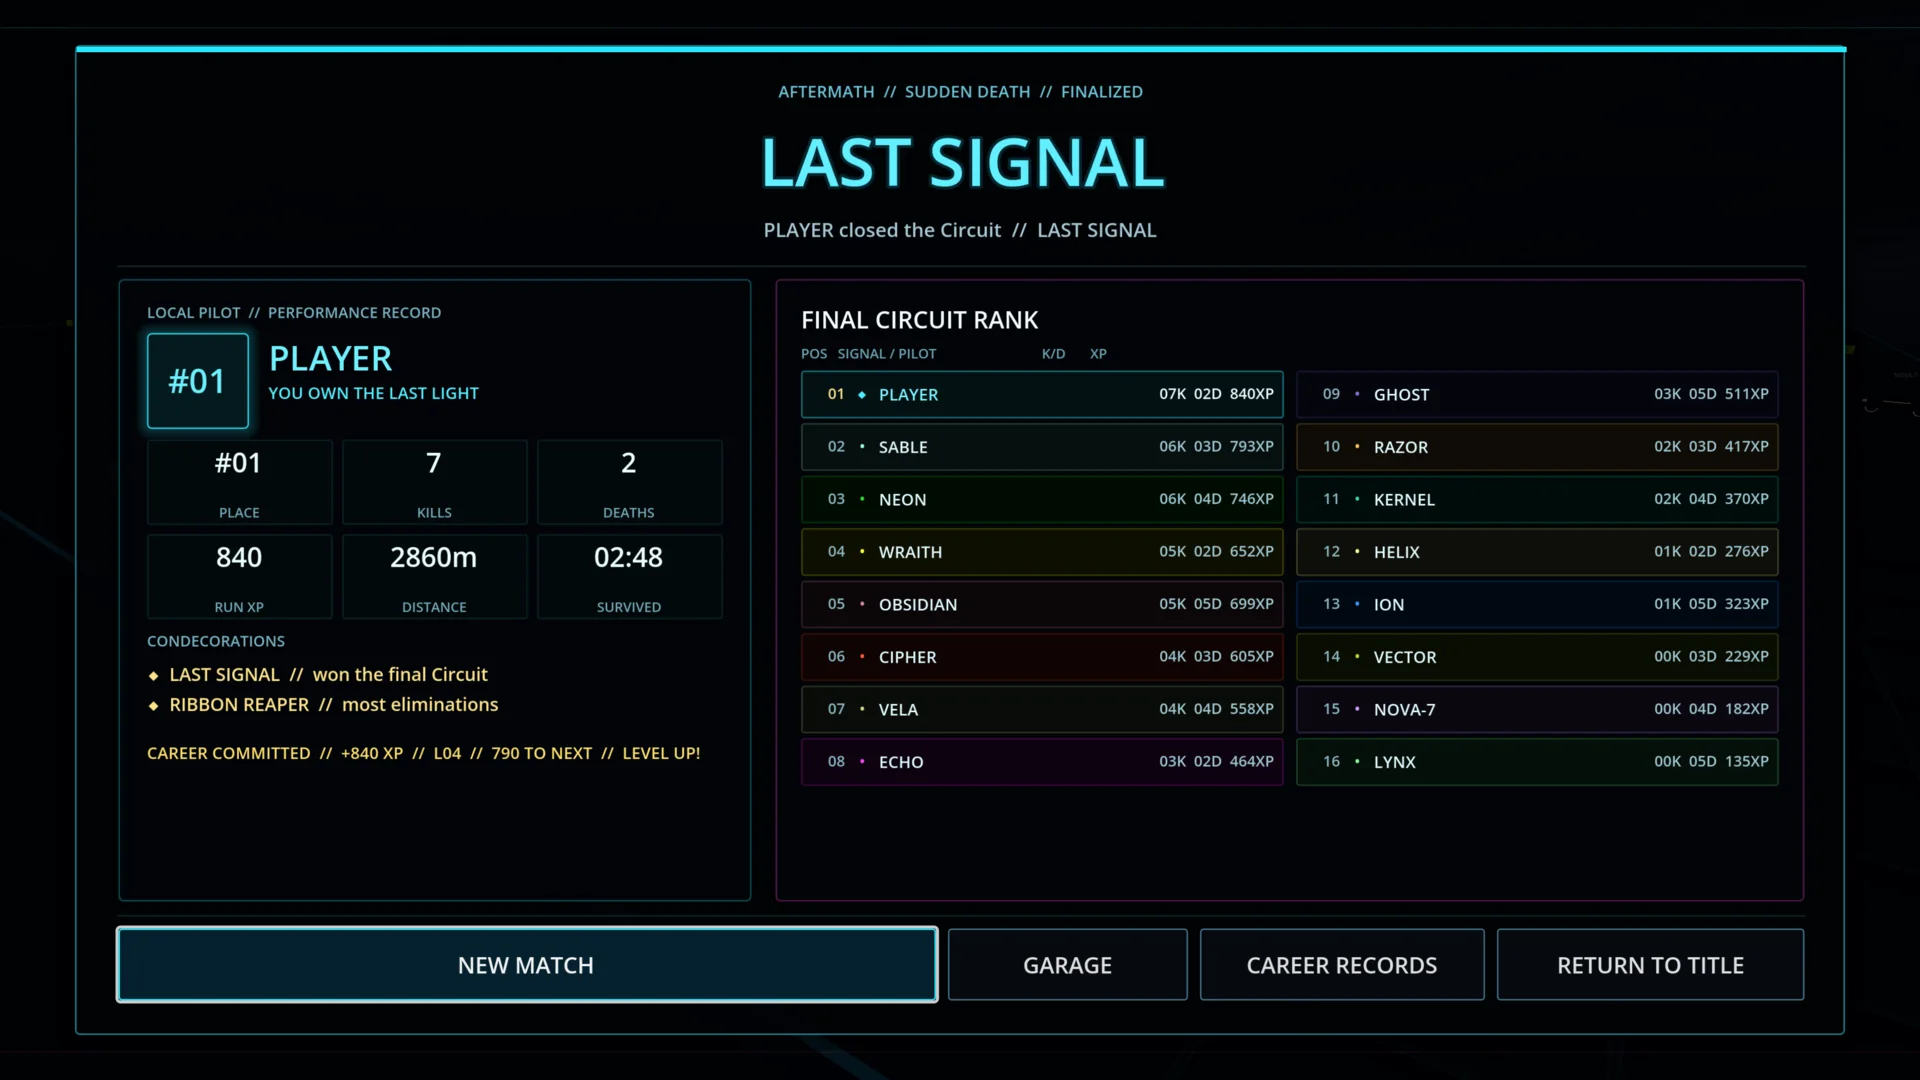
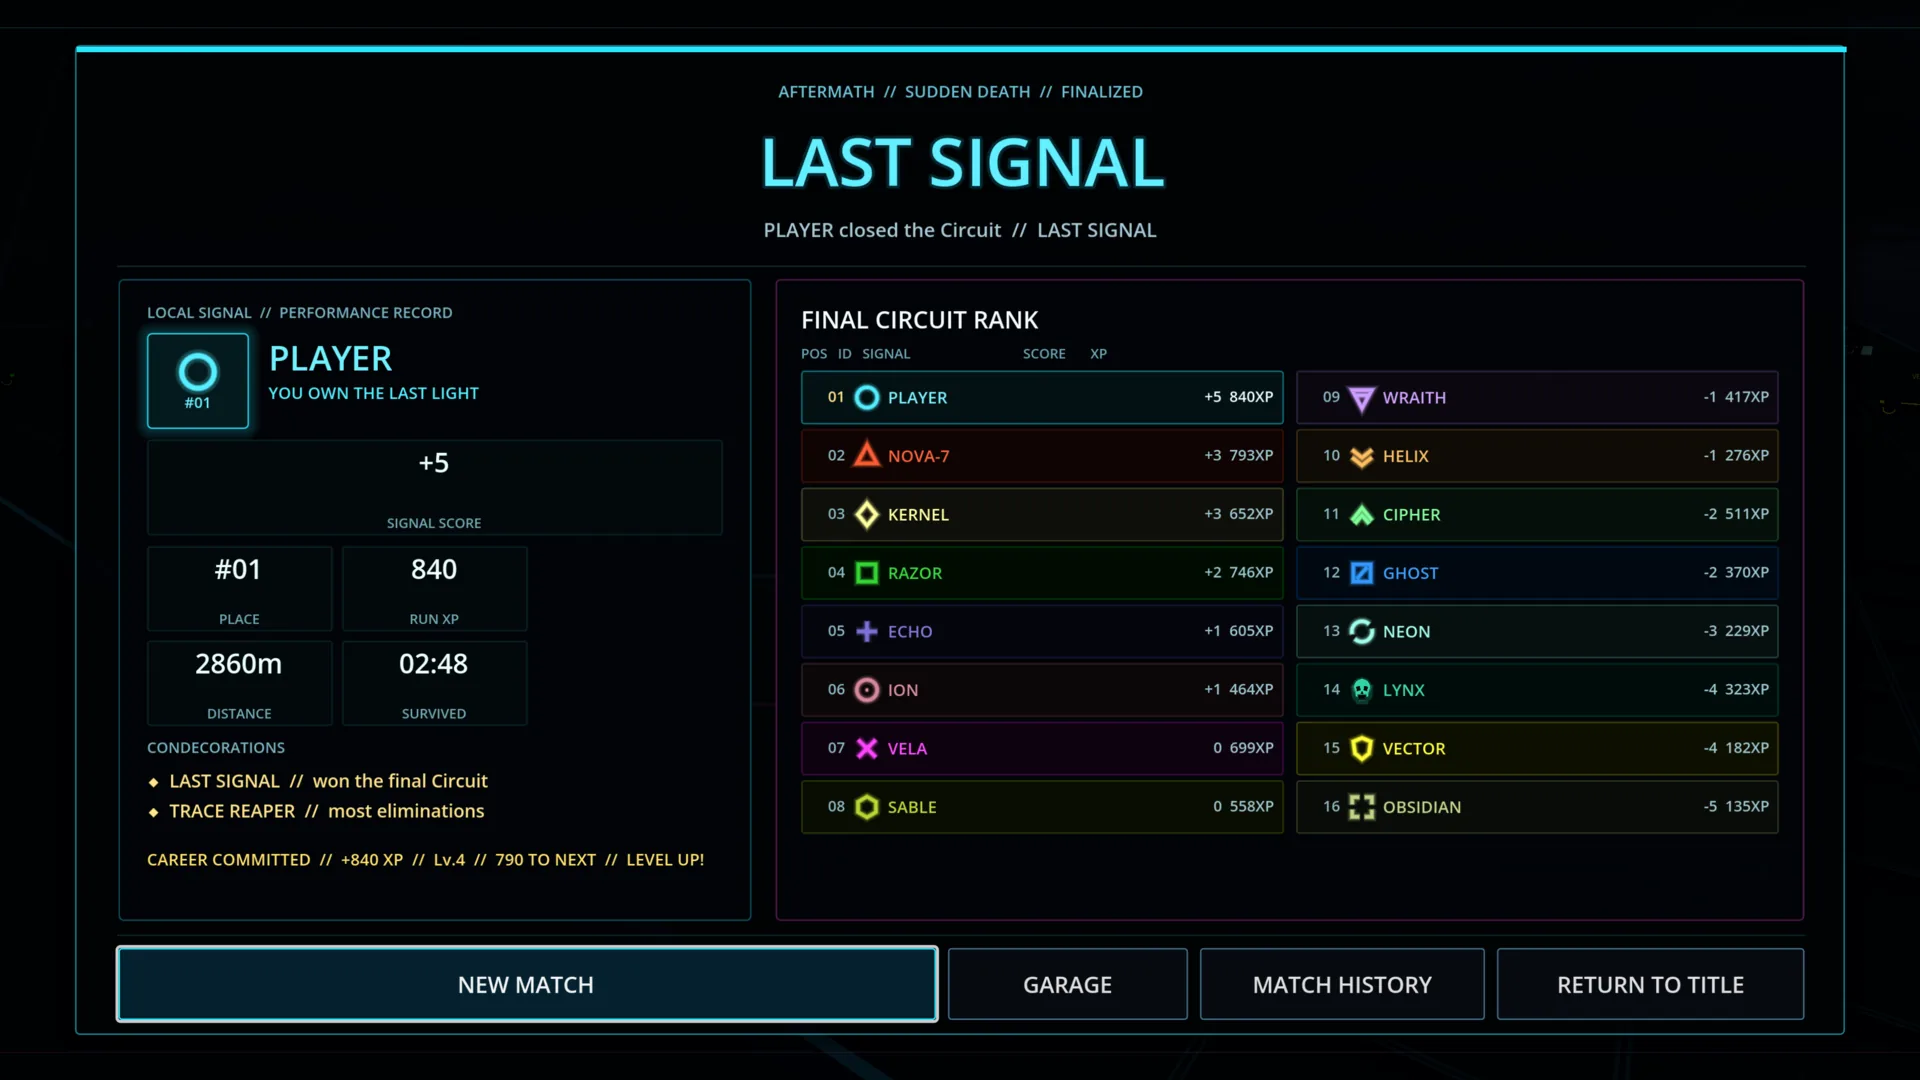
Update landing for Void0 0.19.0

diff --git a/index.html b/index.html
@@ -5,13 +5,13 @@
     <meta name="viewport" content="width=device-width, initial-scale=1.0" />
     <meta
       name="description"
-      content="Outride sixteen Signals, survive six Fade waves, and become the last light above the collapsing Circuit in Void0 v0.18.0."
+      content="Outride sixteen Signals, master signed Score and dynamic Fade pressure, and become the last light above the collapsing Circuit in Void0 v0.19.0."
     />
     <meta name="theme-color" content="#02060d" />
     <meta property="og:title" content="Void0" />
     <meta
       property="og:description"
-      content="Sixteen Signals. Six Fade waves. One collapsing Circuit."
+      content="Sixteen Signals. Signed Score. Six expanding Fade waves. One collapsing Circuit."
     />
     <meta property="og:type" content="website" />
     <meta property="og:url" content="https://void0game.github.io/" />
@@ -20,7 +20,7 @@
       content="https://void0game.github.io/images/hero.webp"
     />
     <link rel="canonical" href="https://void0game.github.io/" />
-    <link rel="icon" type="image/svg+xml" href="/icon.svg?v=0.18.0" />
+    <link rel="icon" type="image/svg+xml" href="/icon.svg?v=0.19.0" />
     <title>Void0 — Rule the Circuit</title>
   </head>
   <body>
@@ -28,7 +28,7 @@
 
     <header class="site-header" data-header>
       <a class="brand" href="#top" aria-label="Void0 home">
-        <img src="/icon.svg?v=0.18.0" alt="" aria-hidden="true" />
+        <img src="/icon.svg?v=0.19.0" alt="" aria-hidden="true" />
         <span class="wordmark" aria-hidden="true">Void<span class="slashed-zero">0</span></span>
       </a>
       <nav aria-label="Primary navigation">
@@ -45,14 +45,15 @@
         <div class="storm-flash" aria-hidden="true"></div>
         <div class="hero-grid" aria-hidden="true"></div>
         <div class="hero-content">
-          <p class="eyebrow reveal">Signal Trace // v0.18.0</p>
+          <p class="eyebrow reveal">Signal Trace // v0.19.0</p>
           <h1 id="hero-title" class="wordmark hero-wordmark reveal reveal-delay-1" aria-label="Void0">
             <span aria-hidden="true">Void</span><span class="slashed-zero" aria-hidden="true">0</span>
           </h1>
           <p class="hero-copy reveal reveal-delay-2">
             Every turn leaves a weapon behind. Break rival Signals, grow your
-            Trace, and climb the K/D rank before six Fade waves erase the
-            lowest lights and send the finalists into a collapsing void.
+            Trace, and raise your signed Score as six Fade waves push the
+            lowest lights into danger. Fall while FADING and you are gone;
+            survive to enter the collapsing void.
           </p>
           <div class="hero-actions reveal reveal-delay-3">
             <a class="button button-primary" href="#downloads">
@@ -85,18 +86,19 @@
           Sixteen Signals launch from the perimeter of a translucent arena over
           a bottomless void. Every kill makes your active Trace longer and
           more dangerous. Destruction retracts that Trace and resets its
-          length, while your K/D and run XP survive the five-second reboot.
+          length, while kills, deaths, signed Score, and run XP survive the
+          five-second reboot.
         </p>
 
         <figure class="cinematic-frame reveal">
           <img
             src="/images/gameplay.webp"
-            alt="Neon lightcycles racing across the storm grid"
+            alt="Void0 player using rear view while neon Signals cross the storm grid"
             width="1920"
             height="1080"
             loading="lazy"
           />
-          <figcaption><span>Live telemetry</span> Rank // Signal // Status // K/D</figcaption>
+          <figcaption><span>Live telemetry</span> Rank // Signal // Status // Score</figcaption>
         </figure>
       </section>
 
@@ -114,7 +116,7 @@
           <article class="release-card reveal">
             <strong>16</strong>
             <h3>Signal survival</h3>
-            <p>Sixteen riders collide through a two-minute sprint before Fade waves and a collapsing Sudden Death decide the last light.</p>
+            <p>Six Fade waves expand the FADING zone across the lowest Scores. A Signal is removed only when destroyed while at risk.</p>
           </article>
           <article class="release-card reveal reveal-delay-1">
             <strong>TRC</strong>
@@ -124,12 +126,12 @@
           <article class="release-card reveal reveal-delay-2">
             <strong>PTY</strong>
             <h3>Friends in the Circuit</h3>
-            <p>Local simulation is playable now. Authenticated lobbies are laying the track for parties, friends, and full-player ranked matches.</p>
+            <p>Practice is playable now. Authenticated lobbies and an authoritative online alpha are connected, with staging and full gameplay parity still ahead.</p>
           </article>
           <article class="release-card reveal">
             <strong>XP</strong>
             <h3>Build your Signal</h3>
-            <p>Earn career XP, raise your level, review K/D and match history, and shape your identity with collectible bike shells.</p>
+            <p>Earn career XP, raise your level, review signed Score in a scrolling Match History, and shape your identity with collectible bike shells.</p>
           </article>
         </div>
       </section>
@@ -198,10 +200,11 @@
           <p class="eyebrow">Collapse protocol // -00:00</p>
           <h2 id="zero-title">When the grid falls away.</h2>
           <p>
-            After six Fade waves, the remaining finalists enter Sudden Death.
-            Reboots stop, the clock turns negative, and 1,849 glass cells
-            digitize from the outside in. The collapse accelerates for up to
-            two minutes until one signal remains—or falls last into the void.
+            After six Fade waves, every Signal still qualified enters Sudden
+            Death—sometimes more than four. Reboots stop, the clock turns
+            negative, and 1,849 glass cells digitize from the outside in. The
+            collapse accelerates for up to two minutes until one signal
+            remains—or falls last into the void.
           </p>
           <div class="zero-meter" aria-hidden="true">
             <span>1,849 cells</span>
@@ -223,7 +226,7 @@
           <button class="gallery-item reveal" type="button" data-lightbox>
             <img
               src="/images/title.webp"
-              alt="Void0 registration panel over a live six-Signal attract match"
+              alt="Void0 title screen showing Start Practice over a live six-Signal attract match"
               width="1920"
               height="1080"
               loading="lazy"
@@ -243,7 +246,7 @@
           <button class="gallery-item reveal" type="button" data-lightbox>
             <img
               src="/images/history.webp"
-              alt="Void0 Match History showing eight recent Circuit runs and career rewards"
+              alt="Void0 scrolling Match History showing Score, kills, deaths, and career rewards"
               width="1920"
               height="1080"
               loading="lazy"
@@ -253,7 +256,7 @@
           <button class="gallery-item reveal reveal-delay-1" type="button" data-lightbox>
             <img
               src="/images/aftermath.webp"
-              alt="Void0 Match Aftermath showing performance and the final rank of all sixteen signals"
+              alt="Void0 Match Aftermath showing signed Signal Score and the final rank of all sixteen signals"
               width="1920"
               height="1080"
               loading="lazy"
@@ -353,7 +356,7 @@
 
     <footer>
       <a class="brand" href="#top" aria-label="Void0 home">
-        <img src="/icon.svg?v=0.18.0" alt="" aria-hidden="true" />
+        <img src="/icon.svg?v=0.19.0" alt="" aria-hidden="true" />
         <span class="wordmark" aria-hidden="true">Void<span class="slashed-zero">0</span></span>
       </a>
       <p>Outride the light. Rule the Circuit.</p>

diff --git a/README.md b/README.md
@@ -7,10 +7,11 @@ the public rolling release tagged `void0-latest` from
 [`romajs/game-downloads`](https://github.com/romajs/game-downloads), then
 connects each platform button to the matching package.
 
-The current presentation tracks Void0 v0.18.0 while focusing on the lasting
-game fantasy: sixteen-Signal survival, weaponized movement, electronic
-adrenaline, social multiplayer direction, career progression, six stored
-power-ups, six Fade waves, and the collapsing Sudden Death Circuit.
+The current presentation tracks Void0 v0.19.0 while focusing on the lasting
+game fantasy: sixteen-Signal survival, weaponized movement, signed Signal
+Score, dynamic Fade pressure, electronic adrenaline, authoritative online
+direction, career progression, six stored power-ups, and the collapsing
+Sudden Death Circuit.
 
 ## Local development
 
